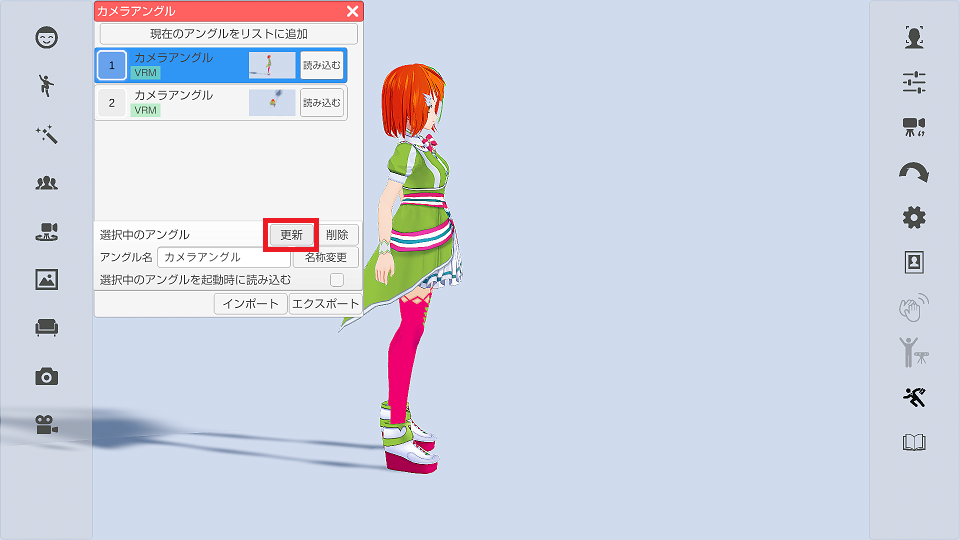
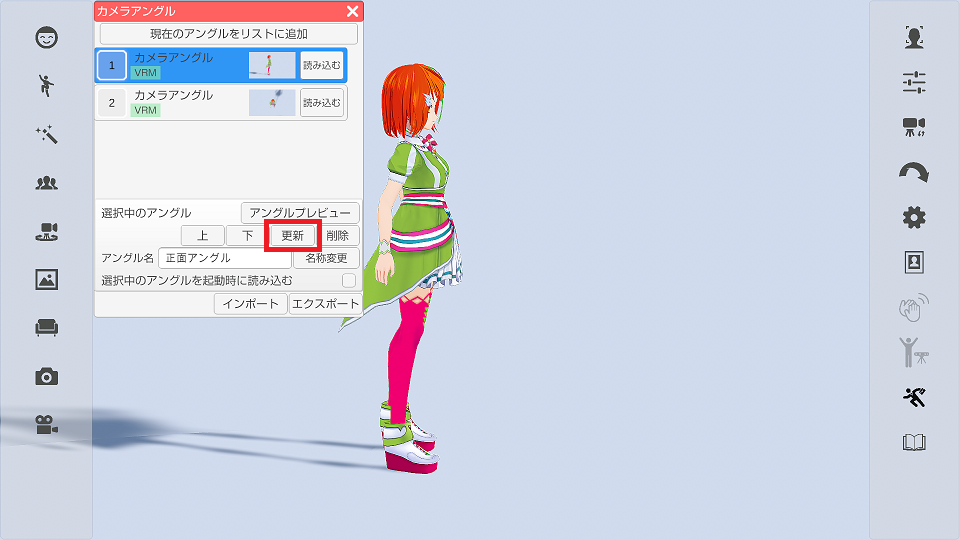
アングルプレビュー機能を追記。

Changed region(s): [[0.0938, 0.3852, 0.375, 0.563]]

diff --git a/CameraAngle.md b/CameraAngle.md
@@ -50,6 +50,26 @@
 ![画像](image/CameraAngle_5.png "")
 
 
+### 保存アングルの順番変更
+
+>アングルリストの項目を上下に移動します。
+>アングルリストは先頭から５番目までがショートカットと
+>アングルプレビューの対象になるのでよく使うアングルは
+>５番目以内に移動すると使いやすくなるかと思います。
+
+
+### アングルプレビュー
+
+>アングルリストの先頭から５番目までに保存されたアングルを
+>常時確認可能なプレビューウインドウを表示します。
+><font color="Blue">有効にチェックを付ける事でプレビューを開始します</font>が、
+>その分の処理負荷が増えますので注意してください。
+
+>アングルリストの順番を変更するとプレビューウインドウにも反映されます。
+
+![画像](image/CameraAngle_6.png "")
+
+
 ### 起動時に保存したアングルを復帰させる
 
 >起動時に復帰させたいをアングルを選び（青色状態にする）、
